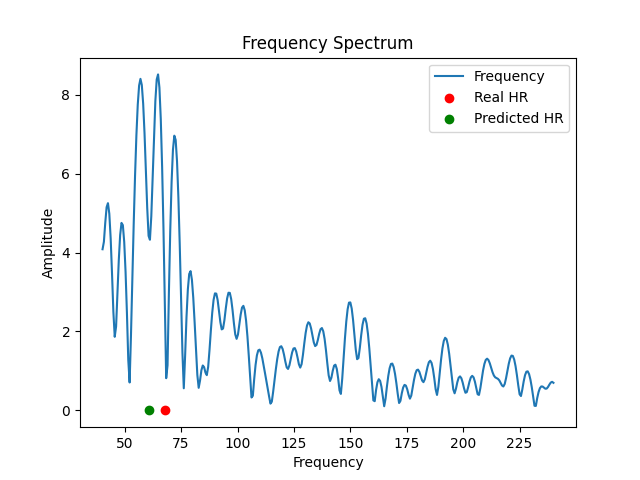
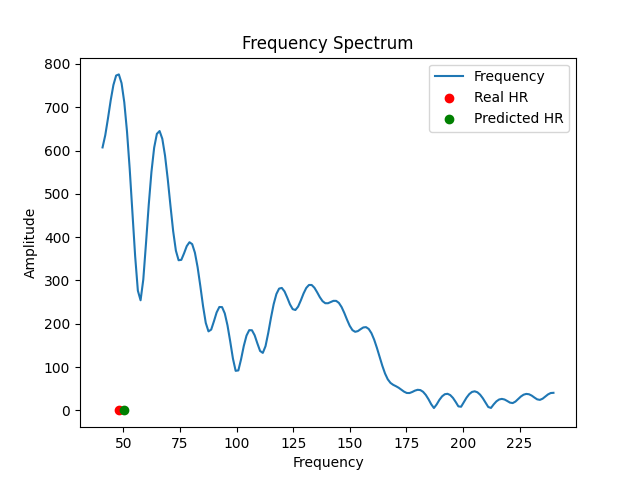
latent3 model fixed i hope

diff --git a/Models/extractor_latent3.py b/Models/extractor_latent3.py
@@ -123,15 +123,17 @@ class Extractor(nn.Module):
         # print("after conv3:",x.shape)
         x = self.conv4(x)
         # print("after conv4:",x.shape)
-        x = x.reshape(1,x.shape[1],x.shape[0],20)
-        # print("after conv4 cat:",x.shape)
+        x = torch.flatten(x, start_dim=2)
+        x = x.permute(1,0,2)
+        x = torch.unsqueeze(x, 0)
+        # print("after flatten and dimension unsqueeze:",x.shape)
         x1 = self.conv5(x)
         # print("after conv5:",x1.shape)
         x2 = self.conv6(x)
         # print("after conv6:",x2.shape)
         x3 = self.conv7(x)
         # print("after conv7:",x3.shape)
-        x = torch.cat((x1,x2,x3),3).reshape(1,x.shape[1],x.shape[2],3*18)
+        x = torch.cat((x1,x2,x3),3)
         # print("after conv5,6,7 cat:",x.shape)
         x = self.maxpool1(x)
         # print("after maxpool1:",x.shape)
@@ -142,7 +144,7 @@ class Extractor(nn.Module):
         # print("after conv9:",x2.shape)
         x3 = self.conv10(x)
         # print("after conv10:",x3.shape)
-        x = torch.cat((x1,x2,x3),3).reshape(1,x.shape[1],x.shape[2],3*24)
+        x = torch.cat((x1,x2,x3),3)
         # print("after conv8,9,10 cat:",x.shape)
         x = self.maxpool2(x)
         # print("after maxpool2:",x.shape)
@@ -153,7 +155,7 @@ class Extractor(nn.Module):
         # print("after conv12:",x2.shape)
         x3 = self.conv13(x)
         # print("after conv13:",x3.shape)
-        x = torch.cat((x1,x2,x3),3).reshape(1,x.shape[1],x.shape[2],3*33)
+        x = torch.cat((x1,x2,x3),3)
         # print("after conv11,12,13 cat:",x.shape)
         x = self.maxpool3(x)
         # print("after maxpool3:",x.shape)

diff --git a/Datasets_handlers/Extractor/dataset_loader.py b/Datasets_handlers/Extractor/dataset_loader.py
@@ -30,12 +30,20 @@ class DatasetLoader:
                 raise Exception("Video path does not exist:", os.path.join(self.dataset_path, video))
             
         self.reset()
+        self.varying_offset = False
+        self.offset = 10
+
+    def set_varying_offset(self, offset):
+        self.offset = offset
+        self.varying_offset = True
 
     def next_sequence(self):
         '''
         Load the next frames according to the step_size
         return: frame
         '''
+        if self.varying_offset:
+            self.step_size = random.randint(1, self.offset)
         self.new_video = False
         self.current_N_sequence += 1
         if self.current_image + self.step_size + self.N <= self.current_video_frames_count:
@@ -121,6 +129,7 @@ class DatasetLoader:
         '''
         Load the next video and initialize frames and hr data
         '''
+
         self.new_video = True
         if self.augmentation:
             self.set_augmentation()
@@ -161,13 +170,13 @@ class DatasetLoader:
     def set_augmentation(self):
         # generate agumentation parameters
         # random angle
-        angle = 10
+        angle = 30
         self.augmentation_angle = random.uniform(-angle,angle)
         # random color
-        color = 10
+        color = 30
         self.augmentation_color = np.random.uniform(-color, color,3)
         # random translation
-        translation = 10
+        translation = 30
         self.augmentation_translation_x = np.random.randint(-translation, translation)
         self.augmentation_translation_y = np.random.randint(-translation, translation)
     

diff --git a/estimator_eval.py b/estimator_eval.py
@@ -1,6 +1,6 @@
 import torch
 from Models.estimator_model import Estimator
-from Models.extractor_model import Extractor
+from Models.extractor_latent3 import Extractor
 # from Models.extractor_latent import Extractor
 from Datasets_handlers.Extractor.dataset_loader import DatasetLoader
 from Datasets_handlers.Estimator.dataset_loader import EstimatorDatasetLoader
@@ -201,7 +201,7 @@ def plot_sequence(sequence,freqs,fft, real_hr,predicted, save_path):
 if __name__ == "__main__":
     import yaml
     import csv
-    config_data = yaml.safe_load(open("config_files/pure_local/config_eval_test.yaml"))
+    config_data = yaml.safe_load(open("config_files/pure_local/config_eval_pure_latent3_exp1.yaml"))
     data = config_data["data"]
     weights = config_data["weights"]
     extractor_weights_path = weights["extractor_weights"]

diff --git a/train_extractor.py b/train_extractor.py
@@ -10,7 +10,7 @@ from extractor_trainer import ExtractorTrainer
 # CONFIG_PATH = os.path.join("config_files", "synthetic", "config_extractor_synthetic.yaml")
 # CONFIG_PATH = os.path.join("config_files", "pure", "config_extractor_pure_halmos_exp21.yaml")
 # CONFIG_PATH = os.path.join("config_files", "pure_local", "config_extractor_pure_exp1.yaml")
-CONFIG_PATH = os.path.join("config_files", "latent_model_test", "config_extractor_pure_halmos_latent3_exp1.yaml")
+CONFIG_PATH = os.path.join("config_files", "latent_model_test", "config_extractor_pure_halmos_latent3_exp2.yaml")
 
 
 if __name__ == "__main__":

diff --git a/train_estimator.py b/train_estimator.py
@@ -10,7 +10,7 @@ from Datasets_handlers.Estimator.dataset_loader import EstimatorDatasetLoader
 from estimator_trainer import EstimatorTrainer
 
 # CONFIG_PATH = os.path.join("config_files", "synthetic", "config_estimator_synthetic.yaml")
-CONFIG_PATH = os.path.join("config_files", "pure_local", "config_estimator_pure_exp1.yaml")
+CONFIG_PATH = os.path.join("config_files", "pure_local", "config_estimator_pure_latent3_exp1.yaml")
 
 
 
